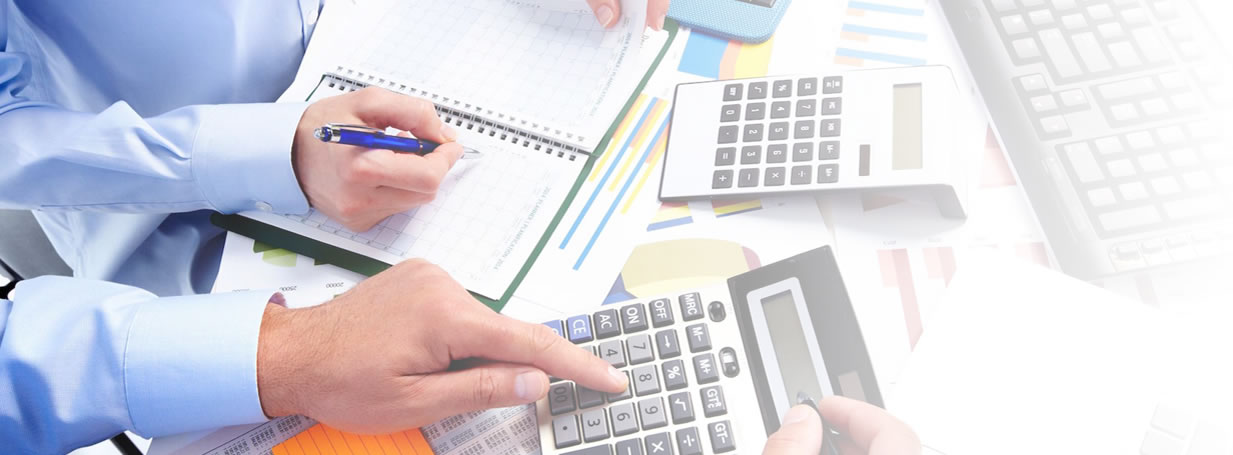
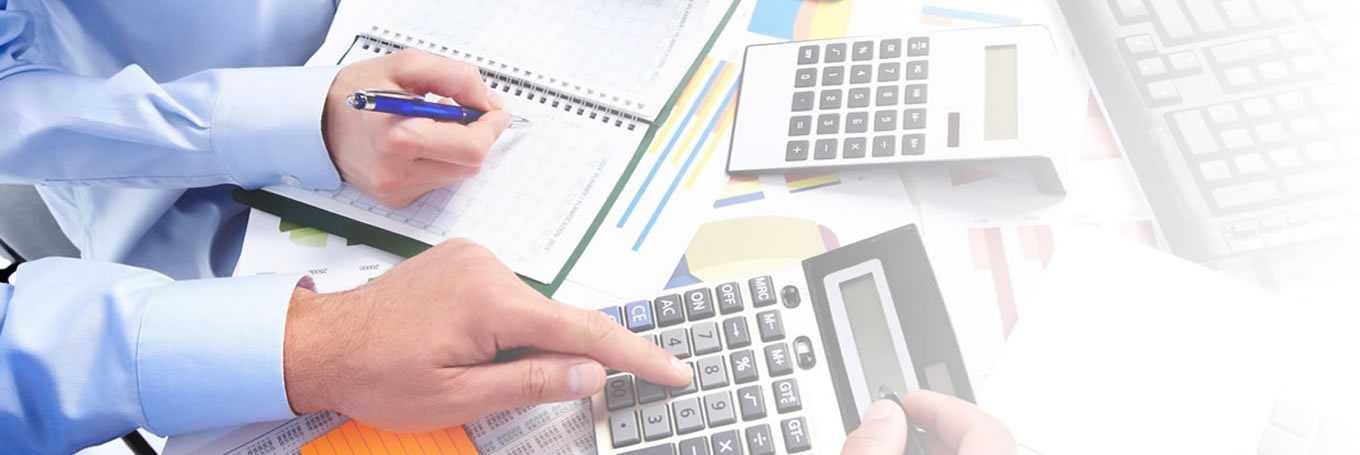
se agregaron slides en pagina home

diff --git a/home/static/home/index.css b/home/static/home/index.css
@@ -13,7 +13,7 @@ body {
     margin-left: auto;
     margin-right: auto;
     padding-left: 0;
-    padding-right: 15px;
+    padding-right: 0px;
 }
 
 
@@ -376,6 +376,13 @@ img.imgcenter{
     background-repeat: repeat-x;
 }
 
+
+.carousel-inner > .item > a > img, .carousel-inner > .item > img, .img-responsive, .thumbnail a > img, .thumbnail > img{
+    display: block;
+    height: auto;
+    max-width: 100%;
+    min-width: 100%;
+}
 
 
 .footer {
